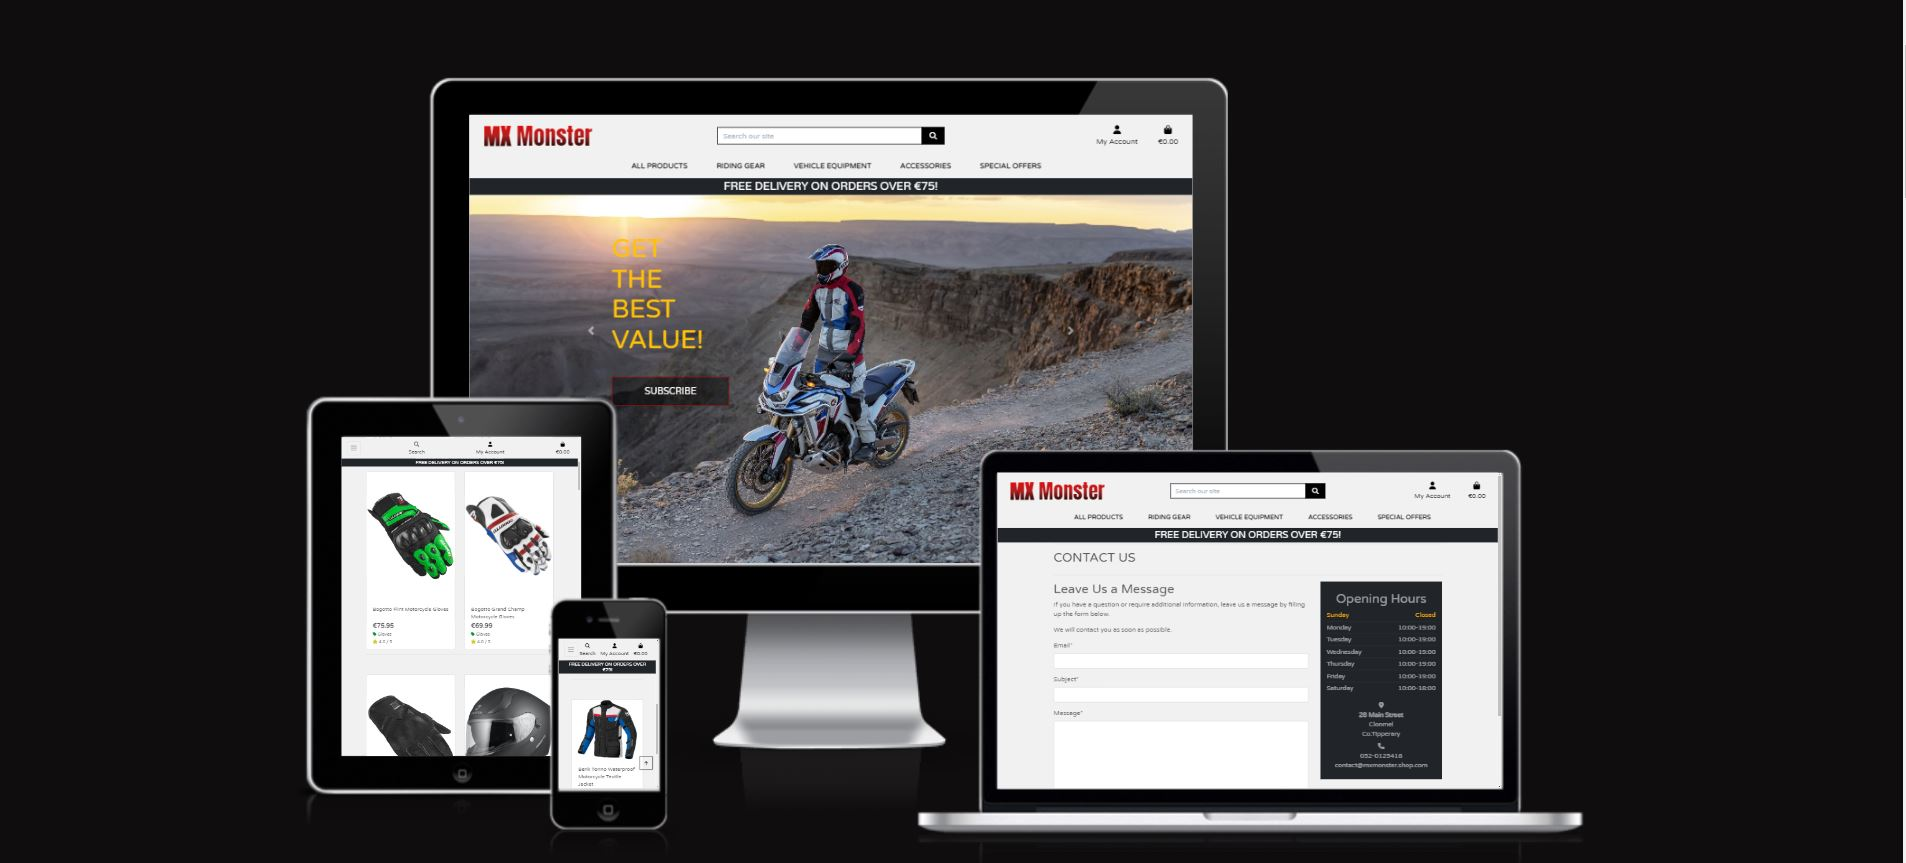
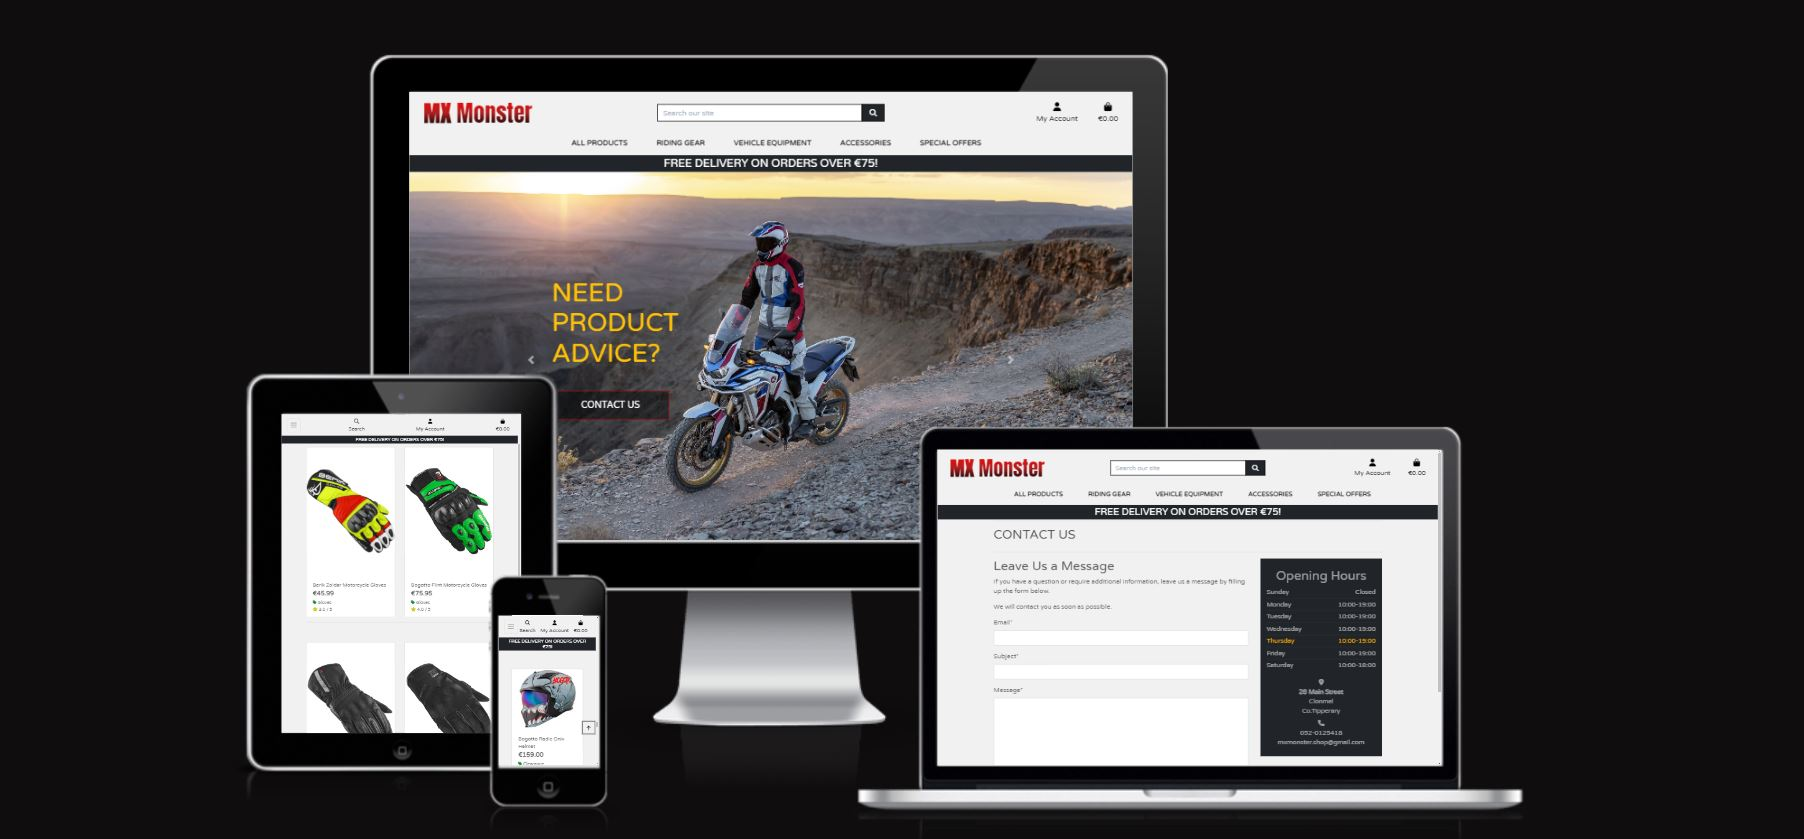
Correct typo error and replace the responsiveness image

Changed region(s): [[0.1242, 0.062, 0.8692, 0.9607], [0.9933, 0.0, 1.0, 1.0]]

diff --git a/README.md b/README.md
@@ -1281,7 +1281,7 @@ As part of marketing strategies for the MX Monster Store, I decided to use socia
 
 - A Facebook business page was the chosen platform, to help build relationships and loyalty with customers. This can be achieved by posting frequent updates to the site, promoting the items, and having direct interactions with existing and potential customers. The next steps would include using Twitter, Instagram, and YouTube as social media platforms to target a larger audience.
 
-Facebook site can be viewed [here](https://www.facebook.com/profile.php?id=100088407152747)
+Facebook page can be viewed [here](https://www.facebook.com/profile.php?id=100088407152747)
 
 ![MX Monster facebook page](docs/images/facebook_page/mx-monster-facebook-page.PNG)
 
